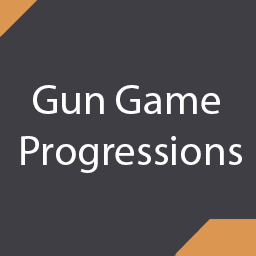
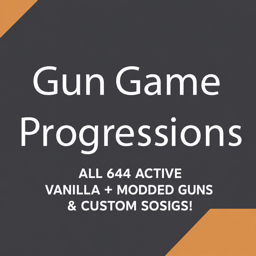
Release GunGame Progressions 1.3.4

diff --git a/tests/H3vrPipeline.Tests/GunGameReleaseMetadataTests.cs b/tests/H3vrPipeline.Tests/GunGameReleaseMetadataTests.cs
@@ -1,0 +1,56 @@
+using System.Text.Json;
+using Xunit;
+
+namespace H3vrPipeline.Tests;
+
+public sealed class GunGameReleaseMetadataTests
+{
+    [Fact]
+    public void Release_metadata_advertises_the_verified_runtime_catalog()
+    {
+        var packageRoot = Path.Combine(
+            FindRepositoryRoot(),
+            "GunGameProgressions",
+            "Thunderstore",
+            "HLin_Mods-GunGameProgression");
+
+        using var manifest = JsonDocument.Parse(File.ReadAllText(Path.Combine(packageRoot, "manifest.json")));
+        var root = manifest.RootElement;
+
+        Assert.Equal("1.3.4", root.GetProperty("version_number").GetString());
+        Assert.Equal(
+            "GunGame, supercharged: 615 vanilla firearms, 372 magazines, 10 clips, and 171 cartridges, plus all supported active modded guns and custom Sosigs. Fast runtime pools rebuild each launch with compatible loadouts.",
+            root.GetProperty("description").GetString());
+
+        var readme = File.ReadAllText(Path.Combine(packageRoot, "README.md"));
+        Assert.Contains("615 supported vanilla firearms", readme);
+        Assert.Contains("372 magazines, 10 clips, and 171 cartridges", readme);
+        Assert.Contains("all supported active modded guns and custom Sosigs", readme);
+
+        var changelog = File.ReadAllText(Path.Combine(packageRoot, "CHANGELOG.md"));
+        Assert.Contains("## 1.3.4", changelog);
+
+        var exporterProject = File.ReadAllText(Path.Combine(
+            FindRepositoryRoot(),
+            "GunGameProgressions",
+            "MetadataExporter",
+            "GunGameProgressionsMetadataExporter.csproj"));
+        Assert.Contains("<Version>1.3.4</Version>", exporterProject);
+    }
+
+    private static string FindRepositoryRoot()
+    {
+        var directory = new DirectoryInfo(AppContext.BaseDirectory);
+        while (directory is not null)
+        {
+            if (Directory.Exists(Path.Combine(directory.FullName, "GunGameProgressions")))
+            {
+                return directory.FullName;
+            }
+
+            directory = directory.Parent;
+        }
+
+        throw new DirectoryNotFoundException("Could not locate the H3VR-Mods repository root.");
+    }
+}

diff --git a/GunGameProgressions/MetadataExporter/src/Plugin.cs b/GunGameProgressions/MetadataExporter/src/Plugin.cs
@@ -11,7 +11,7 @@ using UnityEngine;
 
 namespace HLin.GunGameProgressions;
 
-[BepInPlugin("HLin.GunGameProgressionsMetadataExporter", "GunGame Progressions Metadata Exporter", "1.3.3")]
+[BepInPlugin("HLin.GunGameProgressionsMetadataExporter", "GunGame Progressions Metadata Exporter", "1.3.4")]
 [BepInProcess("h3vr.exe")]
 public sealed class Plugin : BaseUnityPlugin
 {

diff --git a/GunGameProgressions/Thunderstore/HLin_Mods-GunGameProgression/CHANGELOG.md b/GunGameProgressions/Thunderstore/HLin_Mods-GunGameProgression/CHANGELOG.md
@@ -2,6 +2,10 @@
 
 All notable changes to GunGame Progressions are documented here.
 
+## 1.3.4
+
+- Refreshed the Thunderstore listing and icon with the verified vanilla catalog counts and runtime support for active modded guns and custom Sosigs.
+
 ## 1.3.3
 
 - Mixed Enemy profiles now use GunGame Count mode: the default is 3 kills to advance and every kill contributes one advance.

diff --git a/GunGameProgressions/Thunderstore/HLin_Mods-GunGameProgression/README.md b/GunGameProgressions/Thunderstore/HLin_Mods-GunGameProgression/README.md
@@ -2,6 +2,10 @@
 
 GunGame Progressions provides Advanced GunGame profiles and a lightweight runtime exporter for H3VR. It builds compatible loadouts from the content currently enabled in the player's H3VR profile, without modifying the GunGame plugin.
 
+## Current Catalog
+
+The packaged vanilla fallback profiles cover **615 supported vanilla firearms** with **372 magazines, 10 clips, and 171 cartridges** selected from verified compatible loadouts. At runtime, the exporter refreshes the catalog for the player's installed content, adding all supported active modded guns and custom Sosigs without referencing disabled or missing mods.
+
 ## Requirement
 
 - [GunGame](https://thunderstore.io/c/h3vr/p/Kodeman/GunGame/)